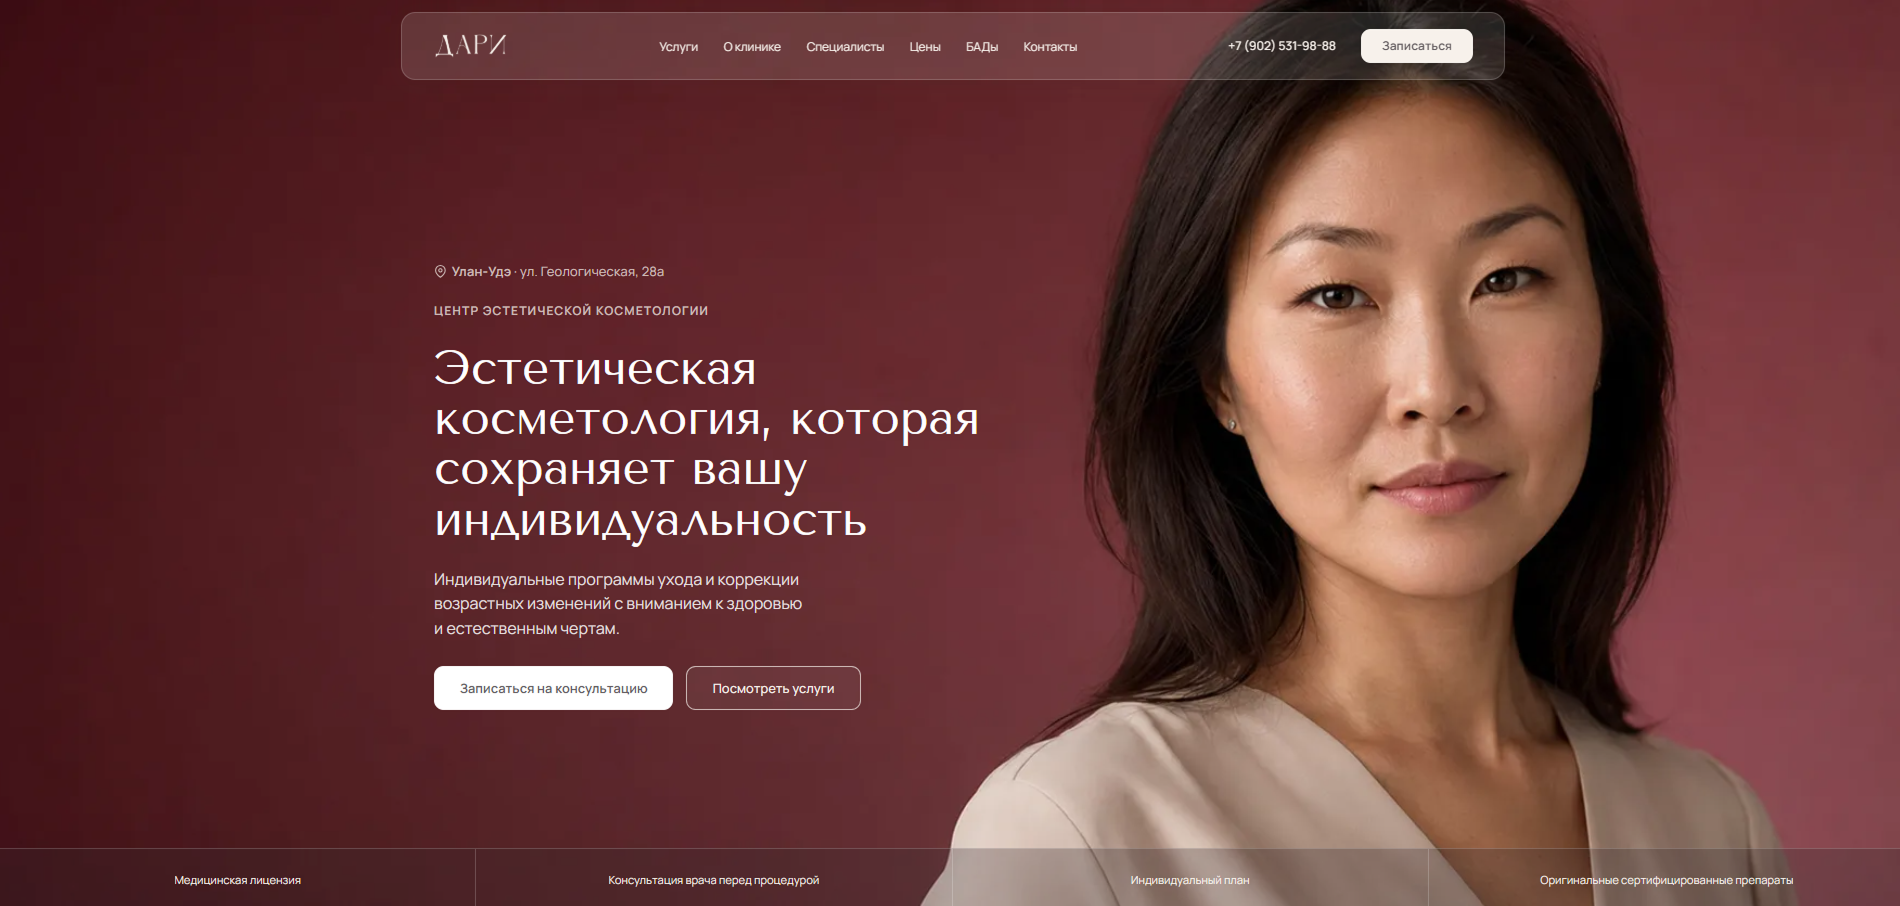
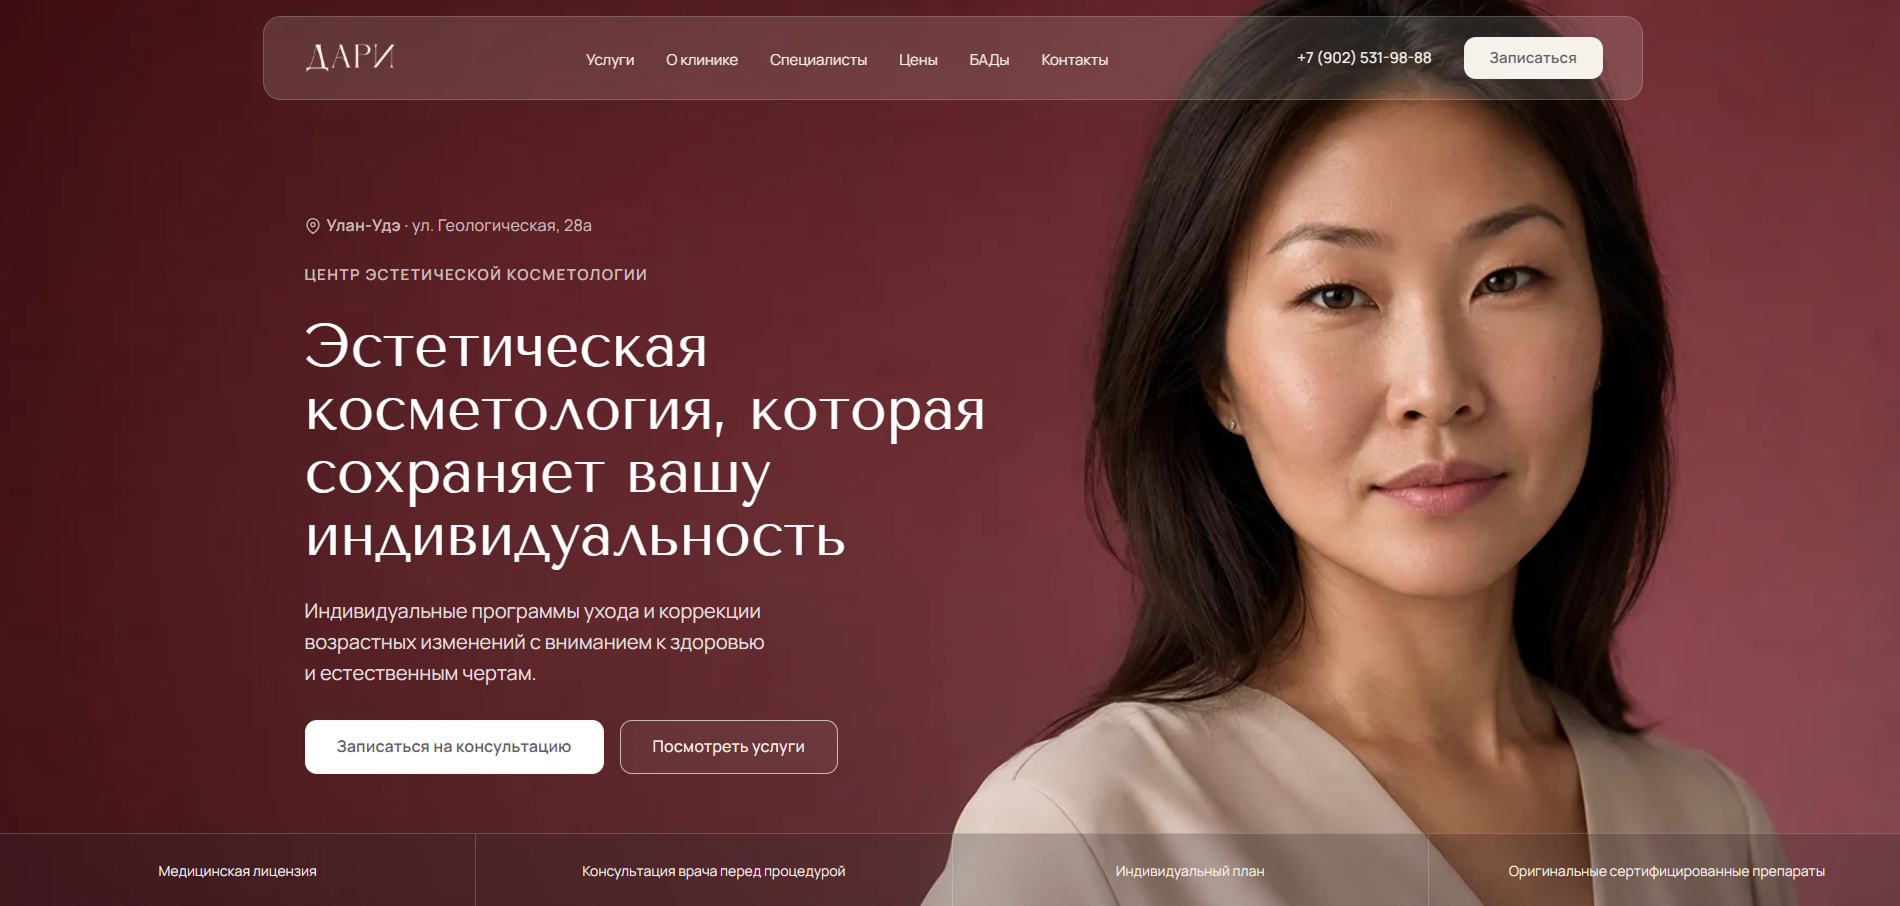
checkpoint: static hero composition

diff --git a/src/HeroStatic.css b/src/HeroStatic.css
@@ -1,222 +1,132 @@
 .hero {
-  position: fixed;
-  inset: 0;
+  position: relative;
+  height: 100vh;
   background-color: #2f3438;
   overflow: hidden;
+  display: flex;
+  flex-direction: column;
+  padding: 5vh 4vw 4.5vh;
   font-family: 'Inter', 'Manrope', 'Helvetica Neue', Arial, sans-serif;
 }
 
-.hero__stage {
-  position: absolute;
-  inset: 0;
+.hero__head {
+  flex: none;
+}
+
+.hero__tag {
+  margin: 0 0 18px;
+  font-size: 12px;
+  font-weight: 500;
+  letter-spacing: 0.26em;
+  color: rgba(247, 243, 238, 0.55);
+}
+
+.hero__wordmark {
+  margin: 0;
+  font-size: clamp(80px, 11vw, 210px);
+  line-height: 0.82;
+  letter-spacing: -0.05em;
+  font-weight: 700;
+  color: #f7f3ee;
+  white-space: nowrap;
 }
 
 .hero__projects {
   position: absolute;
   inset: 0;
-  perspective: 1600px;
-  transform-style: preserve-3d;
+  width: 100%;
+  height: 100%;
+  margin: 0;
+  pointer-events: none;
 }
 
 .hero__screen {
   position: absolute;
-  transform-style: preserve-3d;
+  border: 1px solid rgba(247, 243, 238, 0.12);
+  border-radius: 12px;
+  overflow: hidden;
 }
 
-.hero__frame {
-  position: relative;
-  border: 1px solid rgba(247, 243, 238, 0.16);
-  border-radius: 14px;
-  overflow: visible;
-  transform-style: preserve-3d;
-  box-shadow:
-    0 22px 55px rgba(0, 0, 0, 0.34),
-    0 5px 18px rgba(0, 0, 0, 0.22);
-}
-
-.hero__frame::before {
-  content: '';
-  position: absolute;
-  inset: -8px;
-  border-radius: inherit;
-  z-index: -1;
-  filter: blur(24px);
-  opacity: 0.16;
-  pointer-events: none;
-}
-
-.hero__screen--dari .hero__frame::before {
-  background-color: rgba(213, 138, 92, 0.28);
-}
-
-.hero__screen--baza .hero__frame::before {
-  background-color: rgba(120, 160, 180, 0.22);
-}
-
-.hero__screen--atelier .hero__frame::before {
-  background-color: rgba(229, 215, 200, 0.22);
-}
-
-.hero__frame img {
+.hero__screen img {
   display: block;
   width: 100%;
   height: auto;
-  border-radius: inherit;
 }
 
 .hero__screen--dari {
-  left: 2vw;
-  top: 50%;
-  width: 43vw;
-  max-width: 780px;
-  transform: translateY(-50%) translate3d(9vw, 2vh, -40px) rotateY(8deg) rotateX(1deg)
-    rotateZ(-0.6deg);
-  z-index: 7;
-}
-
-.hero__screen--baza {
-  right: 10vw;
-  top: 8vh;
-  width: 32vw;
-  max-width: 600px;
-  transform: translate3d(-2vw, 0, -260px) rotateY(-10deg) rotateX(2deg) rotateZ(1deg)
-    scale(0.92);
-  filter: brightness(0.86) saturate(0.88);
+  left: 20vw;
+  top: 28vh;
+  width: 36vw;
+  aspect-ratio: 1.56;
   z-index: 3;
 }
 
-.hero__screen--atelier {
-  right: 12vw;
-  bottom: 14vh;
-  width: 27vw;
-  max-width: 500px;
-  transform: translate3d(-3vw, -2vh, -140px) rotateY(-7deg) rotateX(-1deg) rotateZ(-0.7deg)
-    scale(0.97);
-  z-index: 5;
-}
-
-.hero__portrait {
+.hero__screen--dari img {
   position: absolute;
-  inset: 0;
-  display: flex;
-  align-items: center;
-  justify-content: center;
-  padding-left: 16vw;
-  z-index: 10;
-  pointer-events: none;
-}
-
-.hero__portrait img {
-  display: block;
-  height: 94vh;
+  top: 0;
+  left: 0;
+  height: 100%;
   width: auto;
+  max-width: none;
+  transform: translateX(-12%);
 }
 
-.hero__copy {
+.hero__screen--baza {
+  left: 54vw;
+  top: 36vh;
+  width: 38vw;
+  aspect-ratio: 1.62;
+  overflow: hidden;
+  z-index: 1;
+}
+
+.hero__screen--baza img {
+  width: 100%;
+  height: 100%;
+  object-fit: cover;
+  object-position: 52% center;
+}
+
+
+.hero__foot {
   position: absolute;
-  left: 5vw;
-  top: 12vh;
-  max-width: 48vw;
-  z-index: 11;
-}
-
-.hero__eyebrow {
-  margin: 0 0 30px;
-  font-size: 13px;
-  font-weight: 500;
-  letter-spacing: 0.22em;
-  color: rgba(247, 243, 238, 0.58);
-}
-
-.hero__title {
+  left: 4.5vw;
+  bottom: 11vh;
+  z-index: 20;
   margin: 0;
-  font-size: clamp(52px, 5.2vw, 100px);
-  font-weight: 700;
-  line-height: 1.03;
-  letter-spacing: -0.015em;
-  text-transform: uppercase;
+  max-width: 520px;
+}
+
+.hero__lead {
+  margin: 0 0 10px;
   color: #f7f3ee;
+  font-size: clamp(20px, 1.35vw, 26px);
+  line-height: 1.3;
+  max-width: 560px;
 }
 
-.hero__accent {
-  color: #d58a5c;
-}
-
-.hero__subtitle {
-  margin: 34px 0 0;
-  max-width: 42ch;
-  font-size: 17px;
-  line-height: 1.55;
-  color: rgba(247, 243, 238, 0.66);
-}
-
-.hero__actions {
-  display: flex;
-  flex-wrap: wrap;
-  gap: 14px;
-  margin-top: 44px;
-}
-
-.hero__btn {
-  padding: 16px 32px;
-  border-radius: 999px;
-  border: 1px solid transparent;
-  font-family: inherit;
-  font-size: 15px;
-  font-weight: 600;
-  letter-spacing: 0.02em;
-  cursor: pointer;
-}
-
-.hero__btn--primary {
-  background-color: #d58a5c;
-  border-color: #d58a5c;
-  color: #22262a;
-}
-
-.hero__btn--ghost {
-  background-color: transparent;
-  border-color: rgba(247, 243, 238, 0.28);
-  color: rgba(247, 243, 238, 0.85);
+.hero__meta {
+  margin: 0;
+  color: rgba(247, 243, 238, 0.62);
+  font-size: clamp(14px, 0.95vw, 17px);
+  line-height: 1.4;
 }
 
 @media (max-width: 900px) {
-  .hero__screen--dari {
-    left: -16vw;
-    top: 12vh;
-    width: 64vw;
-    transform: translateZ(-80px) rotateY(7deg) rotateX(1deg) rotateZ(-1deg);
+  .hero {
+    padding: 4vh 6vw;
+    height: auto;
+    min-height: 100vh;
   }
 
-  .hero__screen--baza {
-    right: -14vw;
-    top: 44vh;
-    width: 48vw;
-    transform: translateZ(-180px) rotateY(-8deg) rotateX(2deg) rotateZ(1deg);
+  .hero__wordmark {
+    white-space: normal;
   }
 
-  .hero__screen--atelier {
-    right: -18vw;
-    bottom: 3vh;
-    width: 44vw;
-    transform: translateZ(-280px) rotateY(-10deg) rotateX(-1deg) rotateZ(-1deg);
-  }
-
-  .hero__portrait {
-    padding-left: 6vw;
-  }
-
-  .hero__portrait img {
-    height: 74vh;
-  }
-
-  .hero__copy {
-    left: 7vw;
-    top: 7vh;
-    max-width: 86vw;
-  }
-
-  .hero__subtitle {
-    max-width: none;
+  .hero__projects {
+    inset: 0;
+    width: 100%;
+    height: 100%;
+    margin: 0;
   }
 }

diff --git a/src/HeroStatic.tsx b/src/HeroStatic.tsx
@@ -1,51 +1,28 @@
 import './HeroStatic.css'
+import { ruTypo } from './lib/typography'
 
 function HeroStatic() {
   return (
     <section className="hero">
-      <div className="hero__stage">
-        <div className="hero__projects">
-          <div className="hero__screen hero__screen--dari">
-            <div className="hero__frame">
-              <img src="/hero/dari.png" alt="Проект DARI" draggable={false} />
-            </div>
-          </div>
-          <div className="hero__screen hero__screen--baza">
-            <div className="hero__frame">
-              <img src="/hero/nasha-baza.png" alt="Проект Наша База" draggable={false} />
-            </div>
-          </div>
-          <div className="hero__screen hero__screen--atelier">
-            <div className="hero__frame">
-              <img src="/hero/atelier.png" alt="Проект Atelier" draggable={false} />
-            </div>
-          </div>
+      <header className="hero__head">
+        <p className="hero__tag">WEB DESIGN · AI · DIGITAL EXPERIENCES</p>
+        <h1 className="hero__wordmark">TUIANA DESIGN</h1>
+      </header>
+      <div className="hero__projects">
+        <div className="hero__screen hero__screen--dari">
+          <img src="/hero/dari.png" alt="Проект DARI" draggable={false} />
         </div>
-        <div className="hero__portrait">
-          <img src="/hero/tuiana.jpg" alt="Туяна" draggable={false} />
+        <div className="hero__screen hero__screen--baza">
+          <img src="/hero/nasha-baza.png" alt="Проект Наша База" draggable={false} />
         </div>
-        <div className="hero__copy">
-          <p className="hero__eyebrow">TUIANA DESIGN · WEB &amp; AI DESIGN</p>
-          <h1 className="hero__title">
-            Сложную экспертизу
-            <br />
-            превращаю в <span className="hero__accent">понятный</span>
-            <br />
-            цифровой продукт
-          </h1>
-          <p className="hero__subtitle">
-            Сайты для врачей и экспертов с личной практикой — структура, тексты, дизайн и запуск.
-          </p>
-          <div className="hero__actions">
-            <button type="button" className="hero__btn hero__btn--primary">
-              Обсудить проект
-            </button>
-            <button type="button" className="hero__btn hero__btn--ghost">
-              Смотреть кейсы
-            </button>
-          </div>
-        </div>
+
       </div>
+      <footer className="hero__foot">
+        <p className="hero__lead">
+          {ruTypo('Веб-дизайн для врачей и экспертов с личной практикой.')}
+        </p>
+        <p className="hero__meta">{ruTypo('Структура · тексты · дизайн · запуск')}</p>
+      </footer>
     </section>
   )
 }

diff --git a/src/lib/typography.ts b/src/lib/typography.ts
@@ -1,0 +1,13 @@
+const NBSP = '\u00A0'
+
+const SHORT_WORDS =
+  'в|во|к|ко|с|со|у|о|об|от|до|по|на|за|из|и|а|для|без|под|над|при|про'
+
+const SHORT_WORD_RE = new RegExp(
+  `(^|[\\s«"'(\\[])(${SHORT_WORDS})[ \\t]`,
+  'gi',
+)
+
+export function ruTypo(text: string): string {
+  return text.replace(SHORT_WORD_RE, `$1$2${NBSP}`)
+}
